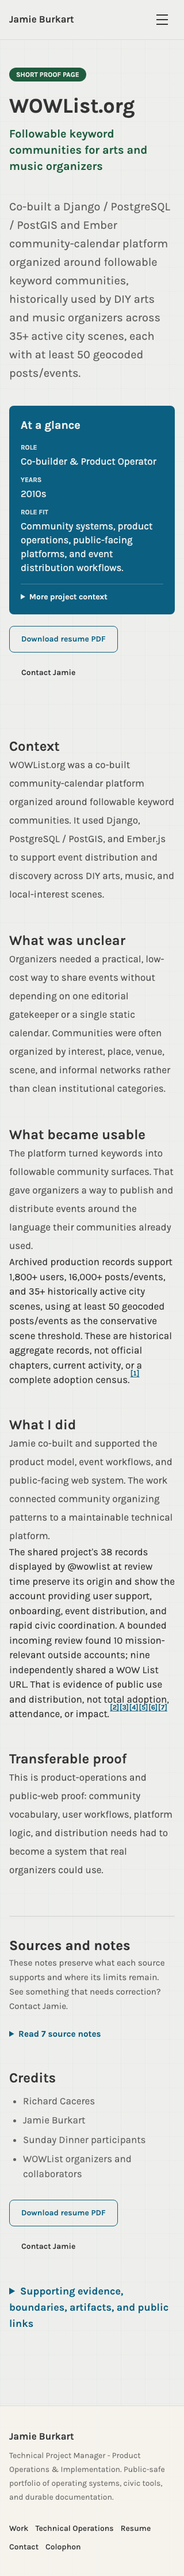
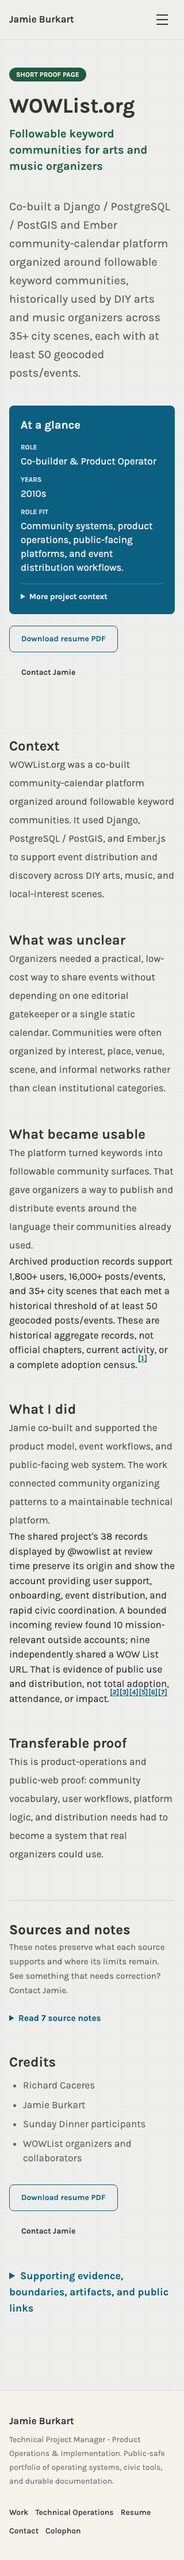
Tighten WOW List evidence projections

diff --git a/apps/www/src/data/knowledge-bank/social-lifecycle.ts b/apps/www/src/data/knowledge-bank/social-lifecycle.ts
@@ -68,7 +68,7 @@ export const socialLifecycle = {
     { id: "TASK-SOCIAL-NYCAC-ENGAGEMENT", candidateClaimIds: ["CND-NYCAC-SOCIAL-IDENTITY-CONTINUITY"], question: "Which serving Council member accounts authored recoverable posts mentioning @NYCArtC, and what can those posts support?", status: "completed", priority: "high", methods: ["Ran bounded authenticated account and mention searches", "Deduplicated by public status URL", "Cross-checked officeholder status at each post date", "Separated authored mentions from likes, outreach, and coalition-post authorship"], sourceIds: ["SRC-SOCIAL-ARCHIVE-INVENTORY-2026-07-15", "SRC-NYCAC-X-PROFILE", "SRC-NYC-COUNCIL-MEMBERS-LEGISLATIVE-RECORD-2019", ...nycacMentionSourceIds], observationIds: ["OBS-NYCAC-SOCIAL-SHARED-IDENTITY", "OBS-NYCAC-SOCIAL-COUNCIL-LOWER-BOUND", "OBS-NYCAC-SOCIAL-COLLECTIVE-AUTHORSHIP"], findings: ["At least six sitting members authored recovered posts mentioning @NYCArtC.", "The profile carries four coalition campaign identities.", "Search limits require lower-bound language and collective account output remains unattributed."], limitations: ["X search caps, indexing, deleted posts, private accounts, suspensions, and renames prevent a complete lifetime census."], nextActions: ["Reconcile a future owner archive against the bounded public ledger", "Retain post-level authorship only where independently established"], openedAt: "2026-07-15", completedAt: "2026-07-15" },
     { id: "TASK-SOCIAL-ACCOUNT-AUTHORSHIP", candidateClaimIds: ["CND-PROJECT-SOCIAL-IDENTITY-ESTABLISHMENT"], question: "What public-safe evidence can corroborate account creation, administrator history, collaborator stewardship, and individual post authorship?", status: "open", priority: "medium", methods: ["Seek minimized account-history exports", "Locate contemporaneous setup records", "Request collaborator confirmation", "Keep security details, personal data, and raw exports outside the public repository"], sourceIds: ["SRC-SOCIAL-ARCHIVE-INVENTORY-2026-07-15", "SRC-NYCAC-DOCUMENT-JOURNAL-2018"], observationIds: ["OBS-PROJECT-SOCIAL-COLLABORATOR-CONTEXT", "OBS-PROJECT-SOCIAL-IDENTITY-ESTABLISHMENT-MEMORY"], findings: ["Jamie's first-person statement and durable collective use are preserved separately.", "Public profiles do not expose creator or administrator history."], limitations: ["A public timeline cannot establish access, handoff, or the human author behind a shared-account post."], nextActions: ["Ask collaborators for a public-safe account-history proof note", "Use a minimized platform export only if it can exclude security and private data"], openedAt: "2026-07-15" },
     { id: "TASK-SOCIAL-WOWLIST-ARCHIVE", candidateClaimIds: ["CND-WOWLIST-SOCIAL-PROVENANCE-AND-SUPPORT"], question: "What does the complete displayed @wowlist population establish about provenance, product support, circulated sources, stakeholder response, and public traction?", status: "completed", priority: "medium", methods: ["Traversed authenticated Posts and Replies until seven consecutive no-growth passes", "Reconciled 37 Posts records and 38 Replies records into a 38-object union", "Classified original posts, replies, and reposted external posts", "Counted posted URLs per record without retaining raw post text or link payloads", "Reviewed mission-relevant source destinations", "Ran a bounded incoming search and verified ten third-party stakeholder records", "Captured public counters as a dated mutable snapshot"], sourceIds: ["SRC-SOCIAL-ARCHIVE-INVENTORY-2026-07-15", "SRC-WOWLIST-FULL-POPULATION-2026-07-15", "SRC-WOWLIST-X-PROFILE", "SRC-WOWLIST-SUNDAY-DINNER-POST-2014", "SRC-WOWLIST-PRODUCT-SUPPORT-POST-2016", "SRC-WOWLIST-SHELBY-TUTORIAL-2015", "SRC-WOWLIST-SBDIY-ADOPTION", ...wowListStakeholderSourceIds, "SRC-WOWLIST-GOOD-TIMES-ZINES-2015", "SRC-WOWLIST-GRASSTRONAUT-HOMEWORK-2015", "SRC-WOWLIST-MEOW-WOLF-DIY-FUND-2017", "SRC-WOWLIST-KQED-GHOST-SHIP-2016", "SRC-WOWLIST-ALLIED-MEDIA-CONFERENCE-2015", "SRC-WOWLIST-POPULAR-VOTE-ARCHIVE-2016"], observationIds: ["OBS-WOWLIST-SOCIAL-PROVENANCE", "OBS-WOWLIST-SOCIAL-SUPPORT", "OBS-WOWLIST-SOCIAL-FULL-POPULATION", "OBS-WOWLIST-SOCIAL-POSTED-URL-ECOLOGY", "OBS-WOWLIST-SOCIAL-STAKEHOLDER-SAMPLE", "OBS-WOWLIST-SOCIAL-TRACTION-SNAPSHOT"], findings: ["All 38 profile-counted records were recovered: 16 original posts, six replies, and 16 reposted external posts.", "Thirty-one records contain 35 posted-link occurrences spanning product support, organizer resources, cultural-space concerns, and civic coordination.", "A bounded review found ten mission-relevant third-party accounts across four stakeholder groups; nine independently posted WOW List URLs.", "Punks & Criminals described adding shows, Music Hackathon described the service, and All Ages publicly answered a members-meeting invitation.", "Twelve of 22 account-authored records displayed at least one interaction on July 15, 2026."], limitations: ["The complete displayed population excludes deleted, private, or unindexed lifetime activity.", "The ten-account incoming review is not a complete adoption census.", "Displayed counters are mutable events, not unique people, reach, conversion, attendance, endorsement, or impact.", "The public account does not establish individual authorship or current service availability."], nextActions: ["Seek collaborator and organizer accounts for a fuller product history", "Revisit missing or newly indexed incoming uses without changing the bounded sample into a lifetime total", "Keep mutable counters and current availability out of impact wording"], openedAt: "2026-07-15", completedAt: "2026-07-15" },
-    { id: "TASK-WOWLIST-PRODUCTION-ARCHIVE-SCALE", candidateClaimIds: ["CND-WOWLIST-HISTORICAL-SCALE"], question: "What historical scale can protected WOW List production snapshots support without exposing raw community records or turning geographic activity into official chapters?", status: "completed", priority: "high", methods: ["Close-read the protected production-database analysis", "Separated exact internal aggregates from rounded public wording", "Applied a conservative active-scene threshold of at least 50 geocoded posts/events", "Excluded raw user, contact, geolocation, organizer, media, and community rows"], sourceIds: ["SRC-WOWLIST-PRODUCTION-ARCHIVE-ANALYSIS-2026-07-15"], observationIds: ["OBS-WOWLIST-HISTORICAL-SCALE"], findings: ["The latest analyzed snapshot contains 1,846 users and 16,142 posts/events.", "Thirty-five city/region entries meet the conservative threshold of at least 50 geocoded posts/events.", "Public wording rounds down to 1,800+ users, 16,000+ posts/events, and 35+ historically active city scenes."], limitations: ["The analysis does not establish official chapters, current activity, unique active humans in every city, current product availability, or Jamie's sole causation of adoption.", "Underlying user, contact, geolocation, media, and community records are protected."], nextActions: ["Retain the exact internal aggregate and threshold in the bank", "Recompute before any future material strengthening", "Keep raw records offline"], openedAt: "2026-07-15", completedAt: "2026-07-15" },
+    { id: "TASK-WOWLIST-PRODUCTION-ARCHIVE-SCALE", candidateClaimIds: ["CND-WOWLIST-HISTORICAL-SCALE"], question: "What historical scale can protected WOW List production snapshots support without exposing raw community records or turning geographic activity into official chapters?", status: "completed", priority: "high", methods: ["Close-read the protected production-database analysis", "Separated exact internal aggregates from rounded public wording", "Applied a conservative historical scene threshold of at least 50 geocoded posts/events", "Excluded raw user, contact, geolocation, organizer, media, and community rows"], sourceIds: ["SRC-WOWLIST-PRODUCTION-ARCHIVE-ANALYSIS-2026-07-15"], observationIds: ["OBS-WOWLIST-HISTORICAL-SCALE"], findings: ["The latest analyzed snapshot contains 1,846 users and 16,142 posts/events.", "Thirty-five city/region entries meet the conservative threshold of at least 50 geocoded posts/events.", "Public wording rounds down to 1,800+ users, 16,000+ posts/events, and 35+ city scenes that each met the historical threshold."], limitations: ["The analysis does not establish official chapters, current activity, unique active humans in every city, current product availability, or Jamie's sole causation of adoption.", "Underlying user, contact, geolocation, media, and community records are protected."], nextActions: ["Retain the exact internal aggregate and threshold in the bank", "Recompute before any future material strengthening", "Keep raw records offline"], openedAt: "2026-07-15", completedAt: "2026-07-15" },
     { id: "TASK-SOCIAL-KCTH-ARCHIVE", candidateClaimIds: ["CND-KCTH-SOCIAL-SERVICE-REPORTING"], question: "What public operating pattern survives in @KCTownHall without exposing resident data or overstating outcomes?", status: "completed", priority: "high", methods: ["Reviewed the 183-record surviving profile population", "Classified tire-intake, action, and result-reporting records", "Separated public-post evidence from private service records and municipal funding"], sourceIds: ["SRC-SOCIAL-ARCHIVE-INVENTORY-2026-07-15", "SRC-KCTH-X-PROFILE", "SRC-KCTH-PINNED-2018", ...kcTownHallEngagementSourceIds], observationIds: ["OBS-KCTH-SOCIAL-SERVICE-REPORTING"], findings: ["One hundred of 183 records concern resident tire intake, pickup activity, or result reporting.", "The pattern supports a public operating-surface claim, not an audited service total or sole authorship."], limitations: ["The public account cannot establish private intake volume, unique households, individual authorship, funding receipt, or project completion."], nextActions: ["Reconcile project-reported totals against the protected operating ledger", "Preserve the known May 2022 count discrepancy"], openedAt: "2026-07-15", completedAt: "2026-07-15" },
     { id: "TASK-SOCIAL-KCSF-ARCHIVE", candidateClaimIds: ["CND-KCSF-SOCIAL-GRANTEE-HIGHLIGHTS"], question: "What campaign operations and outcomes are recoverable from @KCSpacesFund while protecting applicants and organizer credit?", status: "completed", priority: "medium", methods: ["Reviewed 34 of 35 displayed posts", "Counted distinct named public #FUNDED highlights", "Excluded private application, donor, payment, selection, and subscriber records"], sourceIds: ["SRC-KCSF-X-PROFILE", ...kcSpacesHighlightSourceIds], observationIds: ["OBS-KCSF-SOCIAL-GRANTEE-HIGHLIGHTS"], findings: ["At least 11 distinct named public #FUNDED highlights were recovered.", "The account also routed applications and fundraising communication."], limitations: ["The public timeline does not establish the complete grantee or payment ledger, selection process, individual post authorship, or Jamie's role as public organizer."], nextActions: ["Keep the count held from the website", "Use organizer or fiscal-sponsor records for any future complete grant-lifecycle claim"], openedAt: "2026-07-15", completedAt: "2026-07-15" }
   ] satisfies KnowledgeLifecycle["researchTasks"],
@@ -78,7 +78,7 @@ export const socialLifecycle = {
     { id: "DEC-NYCAC-SOCIAL-IDENTITY-PROMOTE", candidateClaimId: "CND-NYCAC-SOCIAL-IDENTITY-CONTINUITY", decision: "promote", rationale: "The shared profile, six named member-authored posts, official term context, and collective-credit boundary make the identity-continuity claim defensible and useful.", evidenceThreshold: "Verified shared profile, named public posts, officeholder checks, bounded search method, and post-authorship restraint.", decidedAt: "2026-07-15", decidedBy: ["Jamie Burkart", "Codex authenticated public-web review"], reviewAuthority: "jamie-approved", humanReviewStatus: "approved", humanReviewer: "Jamie Burkart", targetCanonicalClaimId: "CLM-NYCAC-SOCIAL-IDENTITY-CONTINUITY", allowedSurfaces: ["knowledge-bank", "/work/fair-rent-nyc"], guardrails: ["Keep output collective", "Use six as a recovered lower bound", "Do not infer policy endorsement or causation"] },
     { id: "DEC-PROJECT-SOCIAL-IDENTITY-HOLD", candidateClaimId: "CND-PROJECT-SOCIAL-IDENTITY-ESTABLISHMENT", decision: "hold", rationale: "Jamie's first-person account is valuable and public-safe, but public profiles do not expose creator, administrator, handoff, or post-author history.", evidenceThreshold: "A minimized platform account-history record, contemporaneous setup artifact, or collaborator confirmation, with security details excluded.", decidedAt: "2026-07-15", decidedBy: ["Jamie Burkart", "Codex archival review"], reviewAuthority: "jamie-approved", humanReviewStatus: "approved", humanReviewer: "Jamie Burkart", targetCanonicalClaimId: "CLM-PROJECT-SOCIAL-IDENTITY-ESTABLISHMENT", allowedSurfaces: ["knowledge-bank"], guardrails: ["Do not assign collective posts to Jamie", "Do not expose platform security or private administrator data", "Invite collaborator correction"] },
     { id: "DEC-WOWLIST-SOCIAL-PROMOTE", candidateClaimId: "CND-WOWLIST-SOCIAL-PROVENANCE-AND-SUPPORT", decision: "promote", rationale: "The reconciled displayed population, direct project posts, circulated-source ecology, and independent public-use records make WOW List's operating culture legible without treating mutable counters or a bounded stakeholder sample as impact.", evidenceThreshold: "Complete displayed-population reconciliation, direct provenance and support posts, posted-link dispositions, independent stakeholder-use evidence, and explicit lifetime, authorship, adoption, current-state, and counter boundaries.", decidedAt: "2026-07-15", decidedBy: ["Jamie Burkart", "Codex authenticated public-web review"], reviewAuthority: "jamie-approved", humanReviewStatus: "approved", humanReviewer: "Jamie Burkart", targetCanonicalClaimId: "CLM-WOWLIST-SOCIAL-PROVENANCE-AND-SUPPORT", allowedSurfaces: ["knowledge-bank", "/work/wowlist"], guardrails: ["Credit Richard, Sunday Dinner, organizers, and collaborators", "Describe historical workflows", "Call 38 the complete displayed population, not a complete lifetime archive", "Use ten as a bounded incoming sample, not complete adoption", "Keep mutable counters out of reach and impact claims", "Do not imply current availability"] },
-    { id: "DEC-WOWLIST-HISTORICAL-SCALE-PROMOTE", candidateClaimId: "CND-WOWLIST-HISTORICAL-SCALE", decision: "promote", rationale: "A protected production-database analysis provides exact historical aggregates and a documented conservative threshold; rounded public wording preserves useful scale while protecting raw records and collective credit.", evidenceThreshold: "Exact aggregate counts, a documented 50-plus geocoded-post threshold, protected-source custody, rounded public wording, and explicit privacy, causality, chapter, and current-state boundaries.", decidedAt: "2026-07-15", decidedBy: ["Jamie Burkart", "Codex archived production-database review"], reviewAuthority: "jamie-approved", humanReviewStatus: "approved", humanReviewer: "Jamie Burkart", targetCanonicalClaimId: "CLM-WOWLIST-HISTORICAL-SCALE", allowedSurfaces: ["knowledge-bank", "/", "/resume", "/resume/Jamie-Burkart-Resume-Technical-Project-Manager.pdf", "/work/technical-operations", "/work", "/work/wowlist"], guardrails: ["Use rounded historical aggregates", "Define 35+ historically active city scenes by at least 50 geocoded posts/events", "Do not imply official chapters or current activity", "Keep raw records protected", "Credit adoption as collective work"] },
+    { id: "DEC-WOWLIST-HISTORICAL-SCALE-PROMOTE", candidateClaimId: "CND-WOWLIST-HISTORICAL-SCALE", decision: "promote", rationale: "A protected production-database analysis provides exact historical aggregates and a documented conservative threshold; rounded public wording preserves useful scale while protecting raw records and collective credit.", evidenceThreshold: "Exact aggregate counts, a documented 50-plus geocoded-post threshold, protected-source custody, rounded public wording, and explicit privacy, causality, chapter, and current-state boundaries.", decidedAt: "2026-07-15", decidedBy: ["Jamie Burkart", "Codex archived production-database review"], reviewAuthority: "jamie-approved", humanReviewStatus: "approved", humanReviewer: "Jamie Burkart", targetCanonicalClaimId: "CLM-WOWLIST-HISTORICAL-SCALE", allowedSurfaces: ["knowledge-bank", "/", "/resume", "/resume/Jamie-Burkart-Resume-Technical-Project-Manager.pdf", "/work/technical-operations", "/work", "/work/wowlist"], guardrails: ["Use rounded historical aggregates", "Define the 35+ city-scene figure by at least 50 geocoded posts/events", "Do not imply official chapters or current activity", "Keep raw records protected", "Credit adoption as collective work"] },
     { id: "DEC-KCTH-SOCIAL-PROMOTE", candidateClaimId: "CND-KCTH-SOCIAL-SERVICE-REPORTING", decision: "promote", rationale: "The recovered account population shows a repeatable public operating pattern that materially strengthens the implementation story while remaining separate from funding and project-completion claims.", evidenceThreshold: "Full surviving population review, repeatable classification, privacy boundary, shared-authorship boundary, and separation from audited outcomes.", decidedAt: "2026-07-15", decidedBy: ["Jamie Burkart", "Codex authenticated public-web review"], reviewAuthority: "jamie-approved", humanReviewStatus: "approved", humanReviewer: "Jamie Burkart", targetCanonicalClaimId: "CLM-KCTH-SOCIAL-SERVICE-REPORTING", allowedSurfaces: ["knowledge-bank", "/work/kc-town-hall"], guardrails: ["Records are not completed service units", "Do not assign every post or pickup to Jamie", "Do not expose resident data", "Do not imply funding receipt or project completion"] },
     { id: "DEC-KCSF-SOCIAL-HOLD", candidateClaimId: "CND-KCSF-SOCIAL-GRANTEE-HIGHLIGHTS", decision: "hold", rationale: "The named public campaign outcomes belong in the knowledge bank, but the current portfolio does not need another count and Jamie's role must remain behind-the-scenes digital infrastructure.", evidenceThreshold: "Named public post ledger with organizer, privacy, selection, payment, and authorship boundaries.", decidedAt: "2026-07-15", decidedBy: ["Jamie Burkart", "Codex authenticated public-web review"], reviewAuthority: "jamie-approved", humanReviewStatus: "approved", humanReviewer: "Jamie Burkart", targetCanonicalClaimId: "CLM-KCSF-SOCIAL-GRANTEE-HIGHLIGHTS", allowedSurfaces: ["knowledge-bank"], guardrails: ["Keep campaign organizer credit intact", "Do not infer grant selection, payment, fundraiser control, or post authorship", "Do not expose applicant data"] }
   ] satisfies KnowledgeLifecycle["promotionDecisions"],

diff --git a/apps/www/src/data/knowledge-bank/social-archive.ts b/apps/www/src/data/knowledge-bank/social-archive.ts
@@ -273,7 +273,7 @@ export const socialArchiveSources: SourceRecord[] = [
     preferredPublicUrl: "canonical",
     publicCitation: "WOW List public-safe production archive summary, July 15, 2026.",
     publicNote: "The summary publishes only rounded historical aggregates and the conservative active-scene threshold; underlying production records remain protected.",
-    supportsGenerally: ["rounded 1,800+ historical user aggregate", "rounded 16,000+ historical posts/events aggregate", "35+ historically active city scenes under a 50-plus geocoded-post threshold"],
+    supportsGenerally: ["rounded 1,800+ historical user aggregate", "rounded 16,000+ historical posts/events aggregate", "35+ city scenes that each met a historical threshold of at least 50 geocoded posts/events"],
     doesNotEstablish: ["current product availability", "official city chapters", "current activity", "unique active people", "Jamie's sole causation of adoption", "permission to publish raw records"]
   },
   ...wowListStakeholderSignals.map((signal): SourceRecord => ({
@@ -553,18 +553,18 @@ export const socialArchiveClaims: ClaimRecord[] = [
     internalClaim: "A close read of archived WOW List production database snapshots found 1,846 users, 16,142 posts/events, and 35 city/region entries meeting the conservative threshold of at least 50 geocoded posts/events.",
     status: "confirmed-with-boundary",
     projections: [
-      { key: "case-study", text: "Archived production records support 1,800+ users, 16,000+ posts/events, and 35+ historically active city scenes, using at least 50 geocoded posts/events as the conservative scene threshold. These are historical aggregate records, not official chapters, current activity, or a complete adoption census.", status: "active", citationRequired: true, surfaces: ["/work/wowlist"] },
-      { key: "homepage", text: "WOWList supported 1,800+ historical users, 16,000+ historical posts/events, and use across 35+ historically active city scenes under a conservative threshold.", status: "active", citationRequired: false, surfaces: ["/"] },
-      { key: "resume-html", text: "WOWList supported 1,800+ historical users, 16,000+ historical posts/events, and use across 35+ historically active city scenes under a conservative threshold.", status: "active", citationRequired: false, surfaces: ["/resume"] },
-      { key: "resume-pdf", text: "Jamie co-built WOWList with Richard Caceres; historical production records show use across 35+ active city scenes, each with at least 50 geocoded posts/events.", status: "active", citationRequired: false, surfaces: ["/resume/Jamie-Burkart-Resume-Technical-Project-Manager.pdf"] },
-      { key: "technical-operations", text: "WOWList supported 1,800+ historical users, 16,000+ historical posts/events, and use across 35+ historically active city scenes under a conservative threshold.", status: "active", citationRequired: false, surfaces: ["/work/technical-operations"] },
-      { key: "work-card", text: "Jamie co-built WOWList, historically used across 35+ active city scenes under a conservative threshold.", status: "active", citationRequired: false, surfaces: ["/work"] }
+      { key: "case-study", text: "Archived production records support 1,800+ users, 16,000+ posts/events, and 35+ city scenes that each met a historical threshold of at least 50 geocoded posts/events. These are historical aggregate records, not official chapters, current activity, or a complete adoption census.", status: "active", citationRequired: true, surfaces: ["/work/wowlist"] },
+      { key: "homepage", text: "WOWList supported 1,800+ historical users, 16,000+ historical posts/events, and use across 35+ city scenes that each met a conservative historical threshold.", status: "active", citationRequired: false, surfaces: ["/"] },
+      { key: "resume-html", text: "WOWList supported 1,800+ historical users, 16,000+ historical posts/events, and use across 35+ city scenes that each met a conservative historical threshold.", status: "active", citationRequired: false, surfaces: ["/resume"] },
+      { key: "resume-pdf", text: "Jamie co-built WOWList with Richard Caceres; historical production records show use across 35+ city scenes, each with at least 50 geocoded posts/events.", status: "active", citationRequired: false, surfaces: ["/resume/Jamie-Burkart-Resume-Technical-Project-Manager.pdf"] },
+      { key: "technical-operations", text: "WOWList supported 1,800+ historical users, 16,000+ historical posts/events, and use across 35+ city scenes that each met a conservative historical threshold.", status: "active", citationRequired: false, surfaces: ["/work/technical-operations"] },
+      { key: "work-card", text: "Historical records show WOWList use across 35+ city scenes, each with 50+ geocoded posts/events.", status: "active", citationRequired: false, surfaces: ["/work"] }
     ],
     evidence: [
       { sourceId: "SRC-WOWLIST-PRODUCTION-ARCHIVE-ANALYSIS-2026-07-15", relationship: "direct-support", supports: ["1,846 users", "16,142 posts/events", "35 city/region entries with at least 50 geocoded posts/events", "conservative active-scene threshold"], locator: "Executive summary, archive metrics, city-activity threshold, and claim guidance sections", confidence: "high", renderCitation: false },
       { sourceId: "SRC-WOWLIST-PRODUCTION-ARCHIVE-PUBLIC-SUMMARY-2026-07-15", relationship: "corroborating", supports: ["rounded public aggregates", "public threshold definition", "public-use boundaries"], locator: "Protected historical scale section", confidence: "high", renderCitation: true }
     ],
-    boundaries: ["Treat the figures as historical aggregate database records.", "Define 35+ historically active city scenes by the documented 50-plus geocoded-post threshold.", "Keep raw user, contact, geolocation, and community records protected.", "Credit the platform and adoption as collective work."],
+    boundaries: ["Treat the figures as historical aggregate database records.", "Define the 35+ city-scene figure by the documented threshold of at least 50 geocoded posts/events.", "Keep raw user, contact, geolocation, and community records protected.", "Credit the platform and adoption as collective work."],
     antiClaims: ["35 official city chapters", "35 communities are currently active", "Every database user was a unique active person", "Jamie alone caused adoption", "The archived database proves current availability"],
     researchInquiryIds: ["INQ-WOWLIST-PRODUCTION-ARCHIVE-SCALE"],
     reviewedAt: socialArchiveReviewedAt,
@@ -660,7 +660,7 @@ export const socialArchiveResearchInquiries: ResearchInquiry[] = [
     findings: ["The latest analyzed snapshot contains 1,846 users and 16,142 posts/events.", "Thirty-five city/region entries contained at least 50 geocoded posts/events, the selected conservative active-scene threshold.", "Broader geographic coverage exists but is deliberately excluded from the public scale claim."],
     limitations: ["The analysis does not establish current availability, official chapters, unique active humans, or Jamie's sole causation of adoption.", "The underlying database contains protected user, contact, geolocation, and community records that must not enter the public repository."],
     sourceIds: ["SRC-WOWLIST-PRODUCTION-ARCHIVE-ANALYSIS-2026-07-15"],
-    publicSummary: "A protected production-database analysis supports a bounded historical scale claim: 1,800+ historical users, 16,000+ historical posts/events, and 35+ historically active city scenes under a documented conservative threshold."
+    publicSummary: "A protected production-database analysis supports a bounded historical scale claim: 1,800+ historical users, 16,000+ historical posts/events, and 35+ city scenes that each met a documented conservative historical threshold."
   },
   {
     id: "INQ-SOCIAL-WOWLIST-ARCHIVE",

diff --git a/apps/www/src/data/knowledge-bank/lifecycle-records.ts b/apps/www/src/data/knowledge-bank/lifecycle-records.ts
@@ -455,7 +455,7 @@ const knowledgeLifecycleInput = {
     { id: "MANIFEST-PROOFS-HJE-CASE-STUDY", surface: "case-study", route: "/work/harry-j-epstein", audience: "Readers validating Jamie's long-term business systems work", purpose: "Connect Jamie's modernization work to usable customer and staff outcomes.", selectionCriteria: ["Name Jamie's contributing work", "Keep revenue language contributory"], proofIds: ["hje-modernization-stewardship", "hje-revenue-growth-contribution"], exclusions: ["Private analytics", "Internal revenue detail"], reviewAuthority: "jamie-approved", humanReviewStatus: "approved", humanReviewer: "Jamie Burkart", reviewedAt: "2026-07-14", guardrails: ["Do not imply sole causality", "Keep private operating records offline"] },
     { id: "MANIFEST-PROOFS-FAIR-RENT-CASE-STUDY", surface: "case-study", route: "/work/fair-rent-nyc", audience: "Readers validating Jamie's coalition and civic systems work", purpose: "Show Jamie's documented action inside collective cultural-space advocacy.", selectionCriteria: ["Lead with individual action", "Keep coalition outcomes collective"], proofIds: ["fair-rent-campaign-memory", "fair-rent-source-map", "nyc-artist-coalition-public-web-infrastructure", "nyc-artist-coalition-civic-systems"], exclusions: ["Private coalition strategy", "Individual policy causality"], reviewAuthority: "jamie-approved", humanReviewStatus: "approved", humanReviewer: "Jamie Burkart", reviewedAt: "2026-07-14", guardrails: ["Credit collaborators", "Do not expose private records"] },
     { id: "MANIFEST-PROOFS-CALLNYC-CASE-STUDY", surface: "case-study", route: "/work/callnyc", audience: "Readers evaluating civic product and implementation work", purpose: "Show how Jamie translated public data into resident-facing guidance.", selectionCriteria: ["Keep official and independent status distinct", "Make product behavior legible"], proofIds: ["callnyc-civic-data-guidance"], exclusions: ["Official Council ownership", "Unsupported engagement metrics"], reviewAuthority: "jamie-approved", humanReviewStatus: "approved", humanReviewer: "Jamie Burkart", reviewedAt: "2026-07-14", guardrails: ["Do not imply endorsement", "Retain source boundaries"] },
-    { id: "MANIFEST-PROOFS-WOWLIST-CASE-STUDY", surface: "case-study", route: "/work/wowlist", audience: "Readers evaluating community-platform product work", purpose: "Show Jamie's role in making organizer publishing and discovery usable.", selectionCriteria: ["Name Jamie's co-building and product-operations contribution", "Credit Richard, Sunday Dinner participants, organizers, and collaborators", "Keep user data private", "Bind historical scale to its conservative threshold"], proofIds: ["wowlist-community-platform"], canonicalClaimIds: ["CLM-WOWLIST-HISTORICAL-SCALE"], exclusions: ["Private user records", "Official city chapters", "Unsupported current-status claims", "Complete adoption claims"], reviewAuthority: "jamie-approved", humanReviewStatus: "approved", humanReviewer: "Jamie Burkart", reviewedAt: "2026-07-15", guardrails: ["Protect user data", "Define 35+ historically active city scenes by at least 50 geocoded posts/events", "Keep social counters out of impact claims", "Keep collective credit visible"] },
+    { id: "MANIFEST-PROOFS-WOWLIST-CASE-STUDY", surface: "case-study", route: "/work/wowlist", audience: "Readers evaluating community-platform product work", purpose: "Show Jamie's role in making organizer publishing and discovery usable.", selectionCriteria: ["Name Jamie's co-building and product-operations contribution", "Credit Richard, Sunday Dinner participants, organizers, and collaborators", "Keep user data private", "Bind historical scale to its conservative threshold"], proofIds: ["wowlist-community-platform"], canonicalClaimIds: ["CLM-WOWLIST-HISTORICAL-SCALE", "CLM-WOWLIST-SOCIAL-PROVENANCE-AND-SUPPORT"], exclusions: ["Private user records", "Official city chapters", "Unsupported current-status claims", "Complete adoption claims"], reviewAuthority: "jamie-approved", humanReviewStatus: "approved", humanReviewer: "Jamie Burkart", reviewedAt: "2026-07-15", guardrails: ["Protect user data", "Define the 35+ city-scene figure by at least 50 geocoded posts/events", "Keep social counters out of impact claims", "Keep collective credit visible"] },
     { id: "MANIFEST-PROOFS-SUNDAY-DINNER-CASE-STUDY", surface: "case-study", route: "/work/196-sunday-dinner", audience: "Readers evaluating community operations and facilitation", purpose: "Keep Sunday Dinner co-hosting and residency operations distinct and legible.", selectionCriteria: ["Credit Julia Fredenberg", "Allocate each aggregate to the correct practice", "Keep Jamie's self-reported scale attribution visible"], proofIds: ["sunday-dinner-196-participation-infrastructure"], exclusions: ["Private participant records", "Independent validation of self-reported aggregates"], reviewAuthority: "jamie-approved", humanReviewStatus: "approved", humanReviewer: "Jamie Burkart", reviewedAt: "2026-07-14", guardrails: ["Keep the two practices distinct", "Use 'Jamie reports' for the 20+ residency scale", "Do not publish participant media without review"] },
     { id: "MANIFEST-PROOFS-KC-TOWN-HALL-CASE-STUDY", surface: "case-study", route: "/work/kc-town-hall", audience: "Readers evaluating long-horizon public implementation work", purpose: "Show Jamie's documented proposal and public-review role, the bounded municipal funding lifecycle, and his self-reported mission-aligned project transition.", selectionCriteria: ["Name Jamie as presenter", "Name the Council appropriation", "Pair the appropriation with no disbursement and reappropriation", "Keep the City funding endpoint distinct from Jamie's project transition", "Qualify the transition as Jamie's account"], proofIds: ["kc-town-hall-public-benefit-documentation"], canonicalClaimIds: ["CLM-KC-TOWN-HALL-PUBLIC-RECORD-2019", "CLM-KC-TOWN-HALL-MISSION-ALIGNED-TRANSITION-2026"], exclusions: ["Funding receipt or expenditure", "Project completion", "Receiving-organization identity", "Legal or property-transfer claims", "Current operating status", "Private personal circumstances"], reviewAuthority: "jamie-approved", humanReviewStatus: "approved", humanReviewer: "Jamie Burkart", reviewedAt: "2026-07-15", guardrails: ["Appropriation is not receipt", "The award remained unused and was reappropriated", "Do not present funding withdrawal as project abandonment", "Do not infer private causes or a legal transfer"] },
     { id: "MANIFEST-PROOFS-LAB", surface: "lab", route: "/lab/source-backed-team-memory", audience: "Peers evaluating Jamie's AI-assisted knowledge-work methods", purpose: "Show bounded methods without implying a finished product or private deployment.", selectionCriteria: ["Prefer reusable method proof", "Name human review", "Keep private collaborator and transcript context out"], proofIds: ["source-backed-team-memory-method"], exclusions: ["Private collaborator identity", "Pricing", "Production SaaS claims"], reviewAuthority: "jamie-approved", humanReviewStatus: "approved", humanReviewer: "Jamie Burkart", reviewedAt: "2026-07-14", guardrails: ["Do not imply AI replaces judgment", "Do not expose private source material"] },

diff --git a/apps/www/src/data/proofs.ts b/apps/www/src/data/proofs.ts
@@ -325,13 +325,13 @@ export const proofClaims: ProofClaim[] = [
       "firsthand-collaborator-context"
     ],
     publicWording:
-      "Co-built WOWList.org, a Django, PostgreSQL/PostGIS, and Ember community-calendar platform historically used by DIY arts and music organizers across 35+ active city scenes, each with at least 50 geocoded posts/events.",
-    shortWording: "Jamie co-built WOWList, historically used across 35+ active city scenes",
+      "Co-built WOWList.org, a Django, PostgreSQL/PostGIS, and Ember community-calendar platform historically used by DIY arts and music organizers across 35+ city scenes, each with at least 50 geocoded posts/events.",
+    shortWording: "Jamie co-built WOWList; historical records show use across 35+ city scenes, each with 50+ geocoded posts/events",
     detailedPublicWording:
       "WOWList supported 1,800+ users, 16,000+ posts/events, followable keyword communities, natural-language event entry, weekly digest emails, embeddable calendars, and low-cost deployment for local calendar organizers.",
     sourceBasis: "Approved resume language and a protected production-database analysis with public-safe aggregate findings.",
     guardrail:
-      "Use rounded historical aggregates; define 35+ historically active city scenes by the documented threshold of at least 50 geocoded posts/events, and do not describe city activity as official chapters or current service.",
+      "Use rounded historical aggregates; define the 35+ city-scene figure by the documented threshold of at least 50 geocoded posts/events, and do not describe those scenes as official chapters or current service.",
     doNotSay: [
       "Official chapters in 35 cities",
       "Full ownership of all organizer adoption",
@@ -345,7 +345,7 @@ export const proofClaims: ProofClaim[] = [
       "Unapproved community artifacts"
     ],
     surfaces: ["homepage", "resume", "resume-pdf", "technical-operations", "work-card", "case-study"],
-    canonicalClaimIds: ["CLM-WOWLIST-HISTORICAL-SCALE"],
+    canonicalClaimIds: ["CLM-WOWLIST-HISTORICAL-SCALE", "CLM-WOWLIST-SOCIAL-PROVENANCE-AND-SUPPORT"],
     requiredCanonicalClaimIds: ["CLM-WOWLIST-HISTORICAL-SCALE"],
     relatedProjects: ["wowlist"],
     relatedCapabilities: ["django", "postgresql", "postgis", "ember", "community-platforms"],

diff --git a/apps/www/src/data/work.ts b/apps/www/src/data/work.ts
@@ -373,7 +373,7 @@ const workItemsInput = [
     series: "Community Platform",
     subtitle: "Followable keyword communities for arts and music organizers",
     summary:
-      "Co-built a Django / PostgreSQL / PostGIS and Ember community-calendar platform organized around followable keyword communities, historically used by DIY arts and music organizers across 35+ active city scenes, each with at least 50 geocoded posts/events.",
+      "Co-built a Django / PostgreSQL / PostGIS and Ember community-calendar platform organized around followable keyword communities, historically used by DIY arts and music organizers across 35+ city scenes, each with at least 50 geocoded posts/events.",
     role: "Co-builder & Product Operator",
     years: "2010s",
     status: "Short proof page",
@@ -416,7 +416,7 @@ const workItemsInput = [
       "Followable keyword communities",
       "Organizer-facing distribution workflows",
       "Public-safe aggregate records support 1,800+ users and 16,000+ posts/events",
-      "35+ historically active city scenes, each with at least 50 geocoded posts/events"
+      "35+ city scenes that each met the historical threshold of at least 50 geocoded posts/events"
     ],
     knownOpenProtected: {
       known:

diff --git a/docs/knowledge-bank/claims.md b/docs/knowledge-bank/claims.md
@@ -130,11 +130,11 @@ claim beyond the wording and guardrails here.
 **Status:** Careful
 **Support level:** Careful  
 **Evidence class:** Approved resume / public-safe archive summary / firsthand-collaborator context  
-**Public wording:** Co-built WOWList.org, a Django, PostgreSQL/PostGIS, and Ember community-calendar platform historically used by DIY arts and music organizers across 35+ active city scenes, each with at least 50 geocoded posts/events.
+**Public wording:** Co-built WOWList.org, a Django, PostgreSQL/PostGIS, and Ember community-calendar platform historically used by DIY arts and music organizers across 35+ city scenes, each with at least 50 geocoded posts/events.
 **Detailed public-safe wording:** WOWList supported 1,800+ users, 16,000+ posts/events, followable keyword communities, natural-language event entry, weekly digest emails, embeddable calendars, and low-cost deployment for local calendar organizers.  
 **Where to project:** Homepage, Resume page, Technical Operations, Work card, Case study.  
 **Why it matters:** Shows public-facing platform delivery, community workflows, and product operations for real organizers.  
-**Guardrail:** Treat the figures as historical aggregates; define 35+ historically active city scenes by at least 50 geocoded posts/events; do not describe them as official chapters or current service.
+**Guardrail:** Treat the figures as historical aggregates; define the 35+ city-scene figure by at least 50 geocoded posts/events; do not describe those scenes as official chapters or current service.
 **Do not say:** Official chapters in 35 cities; full ownership of all organizer adoption; current active platform unless confirmed.  
 **Protected boundaries:** Private user data, organizer contact lists, raw records, geolocation rows, and unapproved community artifacts stay offline.  
 **Review owner:** Jamie  

diff --git a/docs/knowledge-bank/proofs.md b/docs/knowledge-bank/proofs.md
@@ -12,7 +12,7 @@ This file summarizes public-safe proof posture. The canonical machine-readable c
 - Built and stewarded civic systems, coalition operations, and policy-communications infrastructure for NYC Artist Coalition cultural-space advocacy from 2017 onward.
 - Built and stewarded 30+ pages of shared Commercial Rent Stabilization campaign-memory and coordination infrastructure.
 - Created a legislative source map and provenance redline for Commercial Rent Stabilization public policy lineages and revision paths.
-- Co-built WOWList.org, a Django, PostgreSQL / PostGIS, and Ember community-calendar platform historically used across 35+ active city scenes, each with at least 50 geocoded posts/events.
+- Co-built WOWList.org, a Django, PostgreSQL / PostGIS, and Ember community-calendar platform historically used across 35+ city scenes, each with at least 50 geocoded posts/events.
 - Jamie's approved resume reports 300+ Sunday Dinner gatherings and support for 20+ resident artists through 196 Artists Residency; the two practices remain distinct.
 - Supported KC Spaces Fund, a 2020 Kansas City mutual-aid campaign for grassroots arts and culture spaces, as behind-the-scenes digital infrastructure.
 - Co-led adaptive reuse planning and public-benefit documentation for a $490,539 proposal that advanced through Board recommendation and City Council appropriation; no funds were disbursed, and the unused award was later reappropriated after project withdrawal.

diff --git a/docs/knowledge-bank/research/2026-07-15-project-social-media-archive-production.md b/docs/knowledge-bank/research/2026-07-15-project-social-media-archive-production.md
@@ -174,7 +174,7 @@ Of 22 account-authored records, 12 displayed at least one interaction on July 15
 
 A separate close read of the protected WOW List production-database analysis supports a bounded historical scale claim. The latest analyzed snapshot contains 1,846 users and 16,142 posts/events. Thirty-five city/region entries meet the deliberately conservative active-scene threshold of at least 50 geocoded posts/events.
 
-The public projection rounds these figures to 1,800+ historical users, 16,000+ historical posts/events, and 35+ historically active city scenes, each meeting the threshold of at least 50 geocoded posts/events. This does not mean 35 official chapters, 35 currently active communities, or 1,846 unique active people. It does not establish current product availability or Jamie's sole causation of adoption. Raw user, contact, geolocation, media, and community records remain protected.
+The public projection rounds these figures to 1,800+ historical users, 16,000+ historical posts/events, and 35+ city scenes that each met the historical threshold of at least 50 geocoded posts/events. This does not mean 35 official chapters, 35 currently active communities, or 1,846 unique active people. It does not establish current product availability or Jamie's sole causation of adoption. Raw user, contact, geolocation, media, and community records remain protected.
 
 ### Defensible claim
 

diff --git a/docs/knowledge-bank/projection-map.md b/docs/knowledge-bank/projection-map.md
@@ -283,6 +283,7 @@ composed public surface, not a claim database.
 ### Required Canonical Claims
 
 - `CLM-WOWLIST-HISTORICAL-SCALE`
+- `CLM-WOWLIST-SOCIAL-PROVENANCE-AND-SUPPORT`
 
 ### Exclusions
 
@@ -294,7 +295,7 @@ composed public surface, not a claim database.
 ### Guardrails
 
 - Protect user data
-- Define 35+ historically active city scenes by at least 50 geocoded posts/events
+- Define the 35+ city-scene figure by at least 50 geocoded posts/events
 - Keep social counters out of impact claims
 - Keep collective credit visible
 ## `/work/196-sunday-dinner`
